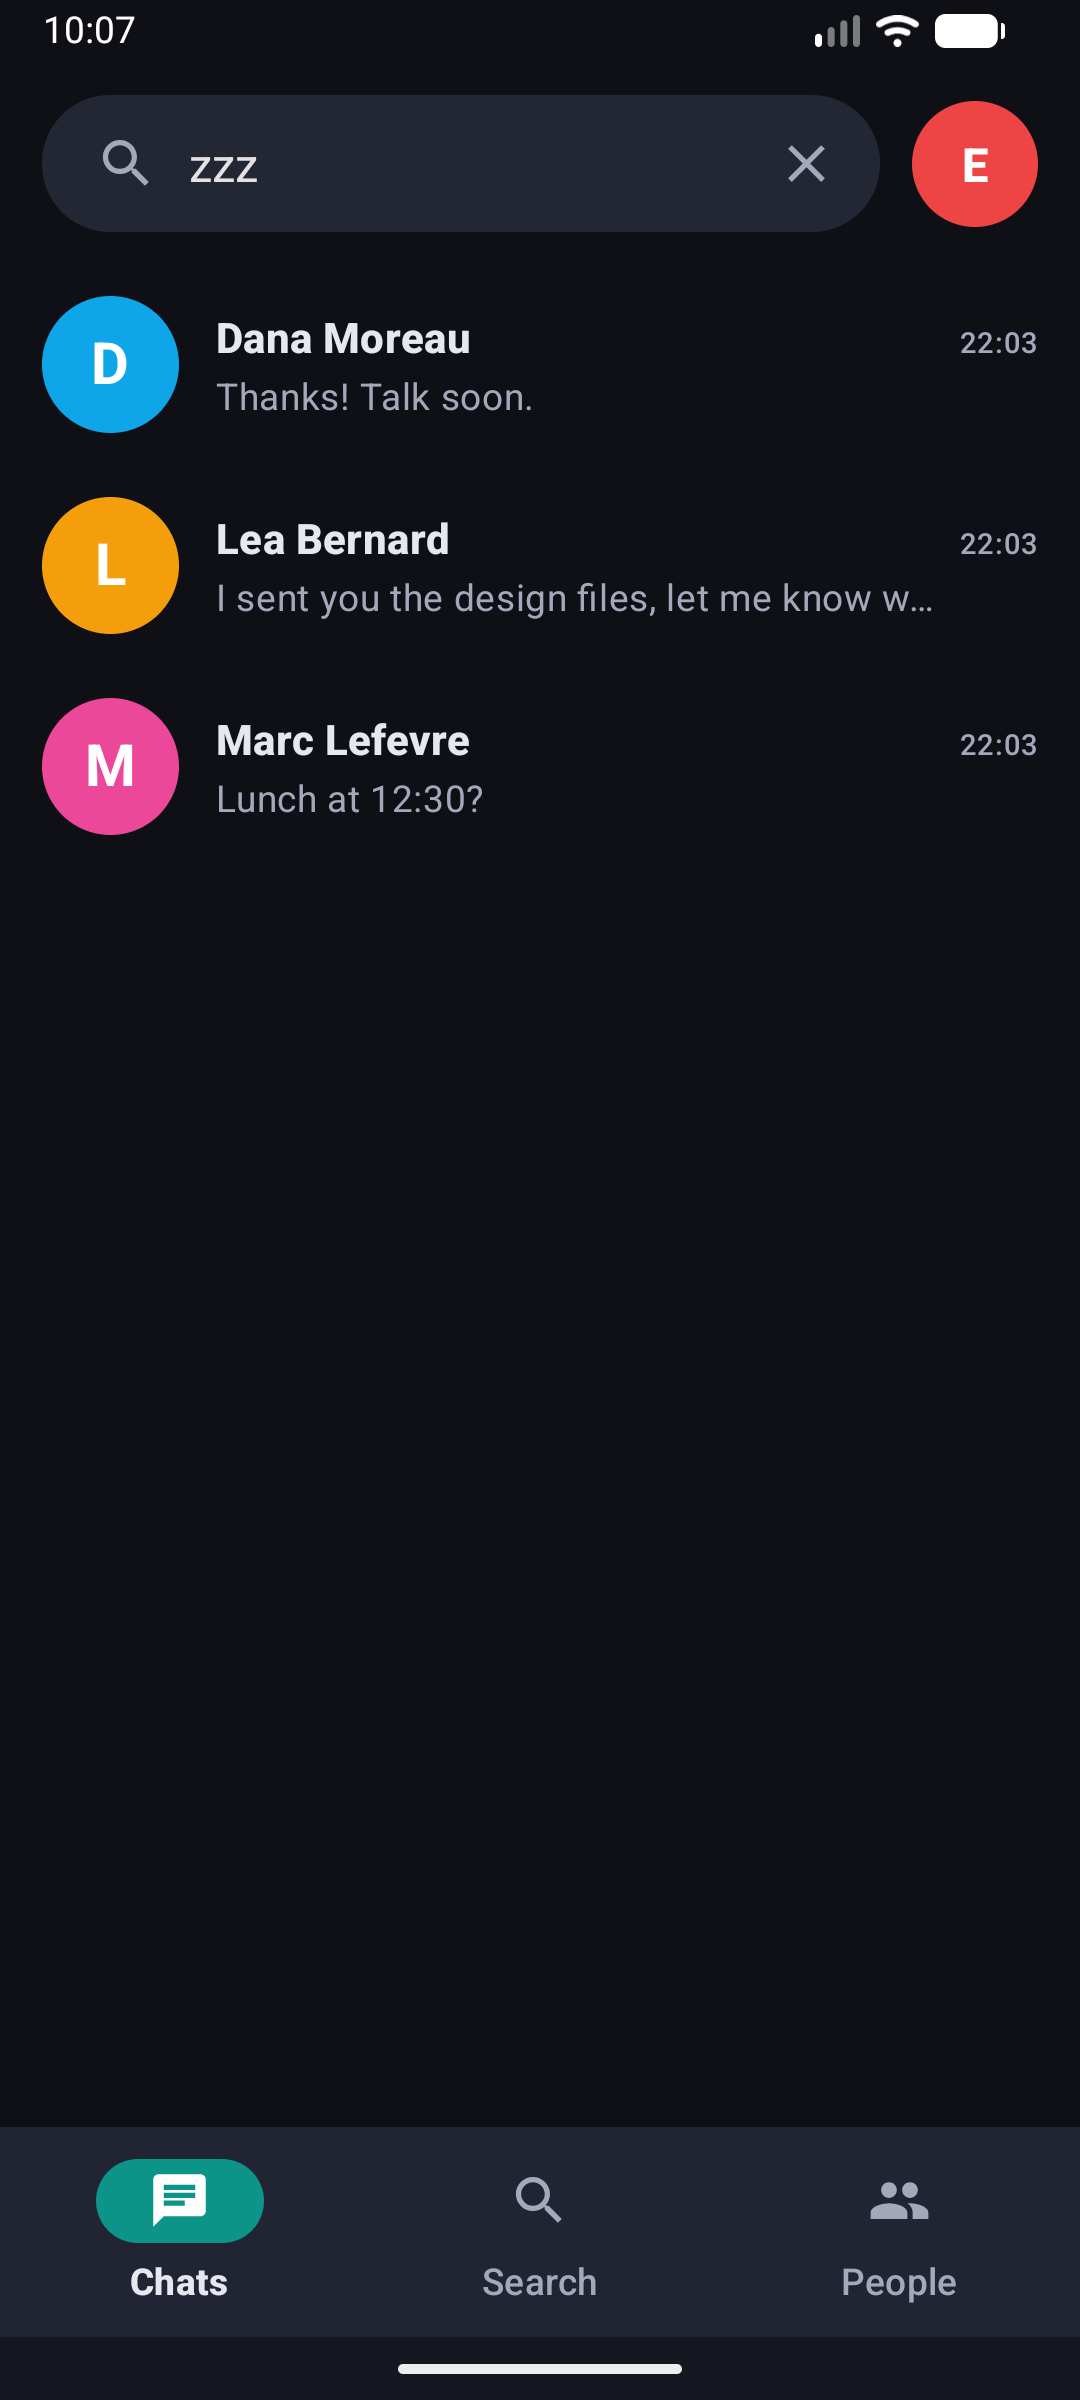
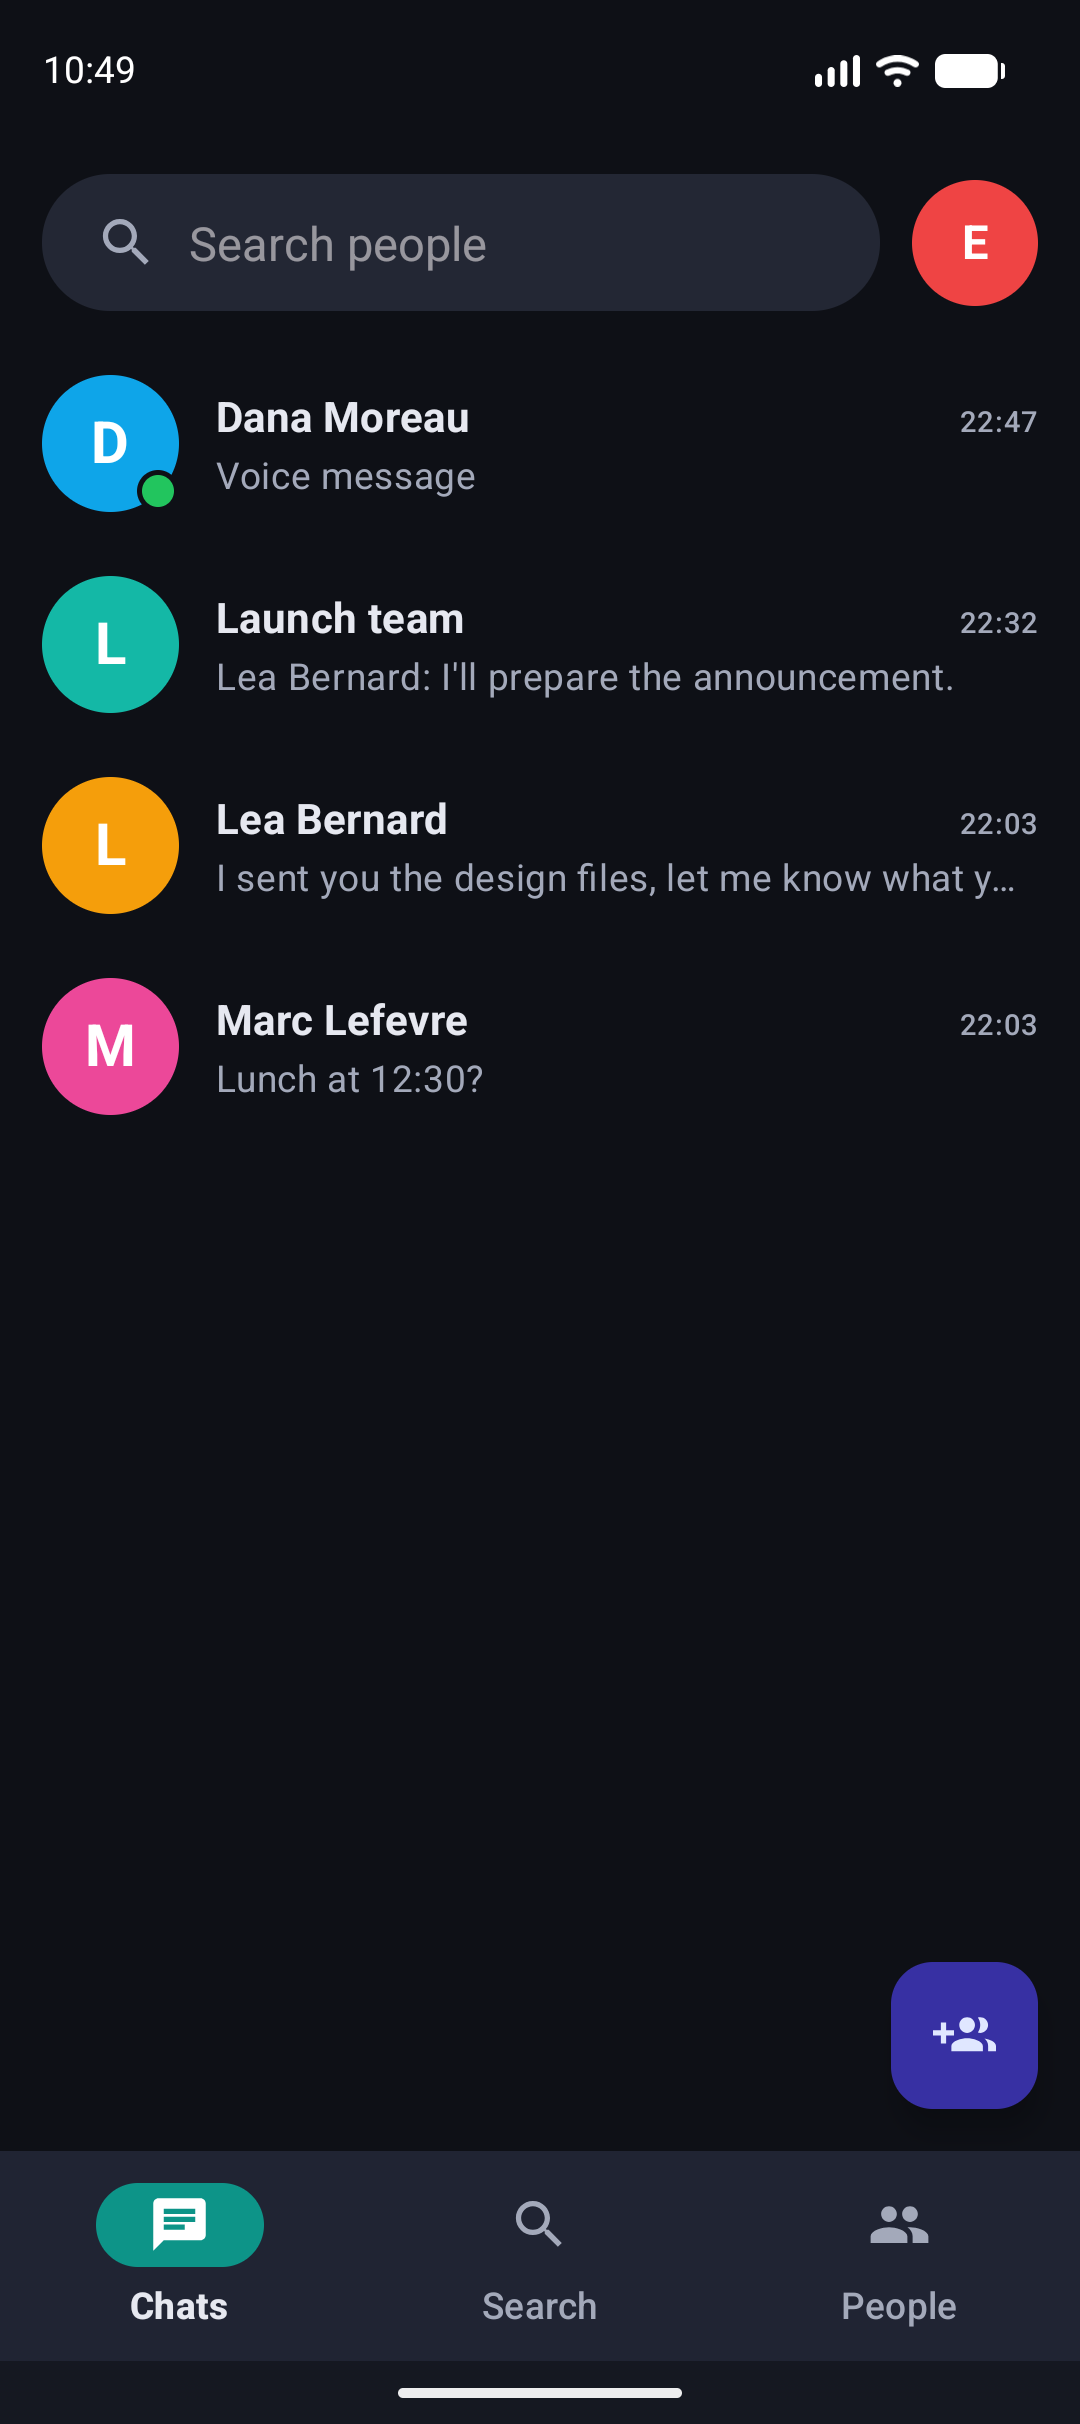
CI workflow, README for the new features, new screenshots

diff --git a/README.md b/README.md
@@ -1,48 +1,64 @@
 # ChatApp: Android chat with a Node.js server
 
-A real-time messaging app: an **Android client (Java)** talking to a **Node.js server** (Express + Socket.IO) backed by **MySQL**. Sign up, find people, add friends and chat; messages are delivered instantly and stored in the database.
+A real-time messaging app: an **Android client (Java)** talking to a **Node.js server** (Express + Socket.IO) backed by **MySQL**. Sign up, find people, add friends, chat one-to-one or in groups, and send photos, voice messages and files; everything is delivered instantly and stored in the database.
 
 ```
-Android app (Java, Volley, Socket.IO client)
-      │  HTTP  :8001  sign up / sign in / search / friends / history
-      │  WebSocket :8000  live messages
+Android app (Java, Volley, Socket.IO client, Room cache)
+      │  HTTP  :8001  sign up / sign in / search / friends / history / uploads
+      │  WebSocket :8000  live messages, typing, presence, read receipts
       ▼
-Node.js server (Express, Socket.IO, Argon2) ──► MySQL 8 (users, friends, messages)
+Node.js server (Express, Socket.IO, Argon2) ──► MySQL 8 (users, friends, messages, groups, uploads)
+                                          └──► uploads/ (photos, voice messages, files)
 ```
 
 ## Features
 
-- Sign up and sign in; the session is kept on the phone until you log out or it expires. Passwords are stored as Argon2 hashes, and the server issues a signed token (see *Authentication*).
-- **Chats** tab with the list of conversations and the conversation view with live delivery over Socket.IO.
-- **Search** tab: full-text search of users by name or e-mail (results ranked by relevance).
-- **People** tab: add and remove friends.
-- Account screen with your profile and log out.
+- **Accounts**: sign up and sign in; the session is kept on the phone until you log out or it expires. Passwords are stored as Argon2 hashes, and the server issues a signed token (see *Authentication*). A profile picture can be set from the profile screen.
+- **Conversations** with people and **groups**, most recent first, with an **unread counter** and a green dot when the person is online.
+- **Messages**
+  - text, **photos** (shrunk and rotated upright before upload, full-screen viewer), **voice messages** and **files** (any type up to 15 MB, opened with the app of your choice);
+  - voice messages are recorded with a **live scrolling waveform** and shown as loudness bars that fill while they play;
+  - **replies** (the quoted message is shown in the bubble), **edit** and **delete** (your own messages, for everyone);
+  - **read receipts** (✓ sent, ✓✓ read), **"typing…"**, **online / last seen**;
+  - history loads in pages of 30 as you scroll up.
+- **Groups**: create from your friends, rename, add and remove members (admins), leave; the sender's name is shown on each message. When the last admin leaves, another member becomes admin.
+- **Offline reading**: the conversation list and the latest messages of each conversation are cached on the phone (Room) and shown instantly, then refreshed from the server.
+- **Search** tab: full-text search of users by name or e-mail (results ranked by relevance). **People** tab: add and remove friends.
+- Material 3 design with light and dark themes.
 
 ## Screenshots
 
-The app running on an Android emulator against the server from this repository. The design follows Material 3, with a light and a dark theme.
+The app running on two Android emulators against the server from this repository.
 
-| Sign in | Sign up | Chats |
+| Chats (unread, groups) | Conversation (photo, voice) | Recording a voice message |
 | :---: | :---: | :---: |
-| <img src="docs/screenshots/sign-in.png" width="240"> | <img src="docs/screenshots/sign-up.png" width="240"> | <img src="docs/screenshots/chats.png" width="240"> |
+| <img src="docs/screenshots/chats.png" width="240"> | <img src="docs/screenshots/conversation.png" width="240"> | <img src="docs/screenshots/recording.png" width="240"> |
 
-| Search | Profile | Conversation |
+| Group chat | Group members | Profile |
 | :---: | :---: | :---: |
-| <img src="docs/screenshots/search.png" width="240"> | <img src="docs/screenshots/profile.png" width="240"> | <img src="docs/screenshots/conversation.png" width="240"> |
+| <img src="docs/screenshots/group.png" width="240"> | <img src="docs/screenshots/group-info.png" width="240"> | <img src="docs/screenshots/profile.png" width="240"> |
+
+| Sign in | Sign up | Search |
+| :---: | :---: | :---: |
+| <img src="docs/screenshots/sign-in.png" width="240"> | <img src="docs/screenshots/sign-up.png" width="240"> | <img src="docs/screenshots/search.png" width="240"> |
 
 | Chats (dark) | Conversation (dark) |
 | :---: | :---: |
 | <img src="docs/screenshots/chats-dark.png" width="240"> | <img src="docs/screenshots/conversation-dark.png" width="240"> |
+
+The emulator's microphone is silent, so the recording screenshot shows the flat baseline; on a phone the bars follow your voice.
 
 ## Quick start (server and database)
 
 ```bash
 docker compose up --build        # MySQL 8 with the sample database + the server (ports 8001 and 8000)
 # set your own signing secret for the login tokens:  JWT_SECRET=$(openssl rand -hex 32) docker compose up --build
-npm install && npm run smoke     # 56 end-to-end checks against the running server
+npm install && npm run smoke     # end-to-end checks against the running server
 ```
 
 The sample database (`chatdb.sql`) contains a few test accounts whose passwords are not documented: create your own account from the app or with `POST /signup`.
+
+The schema added since `chatdb.sql` (attachments, groups, read receipts, profile pictures, waveforms) is created by `server/migrate.js` every time the server starts. It is idempotent, so an existing database is upgraded in place. Uploaded files live in the `uploads` volume (`UPLOAD_DIR`).
 
 ### Without Docker
 
@@ -60,6 +76,7 @@ npm run server                   # or: npm start
 | `DB_NAME` | `ChatDB` | database name |
 | `PORT` | `8001` | HTTP API |
 | `SOCKET_PORT` | `8000` | Socket.IO |
+| `UPLOAD_DIR` | `./uploads` | where uploaded files are stored |
 | `JWT_SECRET` | random at each start | secret that signs the login tokens: set a long random value, otherwise every token stops working when the server restarts |
 | `TOKEN_LIFETIME` | `30d` | how long a token stays valid (`30d`, `12h`, ...) |
 
@@ -73,64 +90,85 @@ nix develop .#android                                      # JDK 17 + Android SD
 ./gradlew assembleDebug -PchatServerHost=192.168.1.20      # real phone: your computer's LAN IP
 ```
 
-The APK is written to `app/build/outputs/apk/debug/app-debug.apk`. In Android Studio, put `chatServerHost=192.168.1.20` in `~/.gradle/gradle.properties`. The phone and the computer must be on the same network. Plain HTTP is allowed (`usesCleartextTraffic`) because the server is meant for a local network.
+The APK is written to `app/build/outputs/apk/debug/app-debug.apk`. In Android Studio, put `chatServerHost=192.168.1.20` in `~/.gradle/gradle.properties`. The phone and the computer must be on the same network. Plain HTTP is allowed (`usesCleartextTraffic`) because the server is meant for a local network. The app asks for the microphone permission the first time you record.
 
 ## Authentication
 
 - `/signup` and `/signin` are public and return a **token** (a signed JWT, HS256, valid `TOKEN_LIFETIME`).
 - Every other route needs `Authorization: Bearer <token>`; without a valid one the answer is `401`. The Android app stores the token with the session and sends it on every request; if the server answers `401` the app signs the user out.
-- The identity always comes from the token, never from an id in the request. You can only read your own friends and chat list, send messages as yourself, add or remove your own friendships, and read a conversation you take part in (`403` otherwise).
+- The identity always comes from the token, never from an id in the request. You can only read your own friends and conversations, send messages as yourself, edit or delete your own messages, read a conversation you take part in, and download files from conversations you belong to (`403` / `404` otherwise).
 - Sign-in gives the same answer for an unknown e-mail and a wrong password, and is limited to 10 failed attempts per address and e-mail every 15 minutes (`429`).
 - Sign-up checks lengths against the database columns (name 1-20, e-mail 1-50) and requires a password of at least 6 characters.
 - Socket.IO connections are authenticated too (below).
+- **Uploads**: a file is uploaded first and then attached to a message by the random name the server returns. Only its uploader can attach it, and only once; the type must match (an image message needs a JPEG, PNG, WebP or GIF). Files are served with `nosniff`, a sandboxing `Content-Security-Policy` and `Content-Disposition: attachment` (except images and audio), so an uploaded HTML file can never run as a page.
 
 The app talks plain HTTP on the local network; put the server behind HTTPS before exposing it beyond that, because tokens and passwords travel in clear otherwise.
 
 ## HTTP API
 
-All routes are `POST` with a JSON or form body and answer with JSON; a failure is `{"error": "..."}`.
+Routes are `POST` with a JSON body (or form body) and answer with JSON; a failure is `{"error": "..."}`. Message objects look like `{messageID, sender, receiver, groupID, type, content, attachment, fileName, fileSize, duration, waveform, replyTo, reply, edited, deleted, readAt, date, senderName}`.
 
 | Route | Body | Returns |
 | --- | --- | --- |
 | `/signup` | `userName`, `userEmail`, `userPassword` | `userID`, `token` |
-| `/signin` | `userEmail`, `userPassword` | `userID`, `userName`, `userEmail`, `token` |
-| `/user` | `userID` | `userID`, `userName`, `userEmail` |
+| `/signin` | `userEmail`, `userPassword` | `userID`, `userName`, `userEmail`, `avatar`, `token` |
+| `/user` | `userID` | `userID`, `userName`, `userEmail`, `avatar`, `online`, `lastSeen` |
 | `/search` | `searchTable` (`users`), `searchCols` (`userName, userEmail`), `searchTerm` | `results` (up to 100 users) |
 | `/friends` | `userID` | `friends` |
-| `/friends/add`, `/friends/remove` | `userID1`, `userID2` | `messages`: the database result (`affectedRows` is `1` on success) |
-| `/chats` | `userID` | `messages`: the user's messages, each with the name and e-mail of the person involved (the app turns them into the conversation list) |
-| `/messages` | `userID1`, `userID2` | `messages`: the conversation |
-| `/messages/send` | `sender`, `receiver`, `content` | `messageID` (the server stamps the time) |
-
-## Tests
-
-```bash
-npm run smoke                                          # 56 checks: API, authentication, authorization, SQL injection, real time
-CHAT_SERVER_HOST=localhost ./gradlew testDebugUnitTest # the app's own Socket.IO client against the server's token check
-```
-
-Both need the server running (`docker compose up --build`); the Gradle test is skipped when `CHAT_SERVER_HOST` is not set.
+| `/friends/add`, `/friends/remove` | `userID1`, `userID2` | the database result (`affectedRows` is `1` on success) |
+| `/conversations` | | `conversations`: people and groups, most recent first, with `preview`, `unread`, `online` |
+| `/messages` | `userID1`, `userID2`, optional `limit` (30, max 100) and `before` (a `messageID`) | `messages` (oldest first), `hasMore` |
+| `/messages/send` | `receiver` or `groupID`; `type` (`text`, `image`, `audio`, `file`); `content`; `attachment`; `duration`, `waveform` (voice); `replyTo` | `messageID`, `message` |
+| `/messages/edit`, `/messages/delete` | `messageID` (+ `content`) | `message` |
+| `/messages/read` | `userID` or `groupID` | how many messages were marked read |
+| `/upload?name=<file name>` | the file as the raw body, with its `Content-Type` (15 MB max) | `attachment` |
+| `GET /files/<attachment>` | | the file (if you belong to the conversation it was sent in) |
+| `/me/avatar` | `attachment` (an uploaded image) or `null` | `avatar` |
+| `/groups/create` | `name`, `members` (user ids) | `groupID` |
+| `/groups/info`, `/groups/messages` | `groupID` (+ paging for messages) | `group` with members and roles / `messages` |
+| `/groups/rename`, `/groups/add`, `/groups/remove` | `groupID` + `name` / `userID` | admins only; anyone may remove themselves to leave |
 
 ## Real time (Socket.IO)
 
 1. The client connects with its token in the handshake (`auth: {token}`; `?token=` also works). Without a valid token the connection is refused with `authentication required`.
-2. On connection the server emits `init request`; the client answers `init` (the user is the one named by the token; an id sent by the client is ignored).
-3. To send, the client emits `chat message` with a JSON string `{"sender", "receiver", "content"}` (a `date` is accepted but ignored: the server stamps the time). `sender` must be the authenticated user, otherwise the message is dropped.
-4. The server forwards it to the sender's and the receiver's connected devices as `chat message` and saves it.
+2. Messages can be sent over the socket (`chat message`, a JSON string with the same fields as `/messages/send`) or with `/messages/send`; the server saves the message, then emits it as `chat message` to every connected device of the sender and the receiver (or of every group member).
+3. Other events from the server: `message updated` (edit / delete), `messages read` (`{by, ids}`), `typing` (`{from, groupID, typing}`), `presence` (`{userID, online, lastSeen}`, sent to friends, people you talk to and group mates), `group updated` (`{groupID, removed}`).
+4. From the client: `typing` (`{to}` or `{groupID}`, `typing: true | false`).
 
 Malformed or incomplete payloads are ignored.
+
+## Tests
+
+```bash
+npm run smoke                  # about 160 end-to-end checks: API, authentication, authorization, SQL injection,
+                               # uploads, groups, receipts, paging, typing, presence, real time
+./gradlew testDebugUnitTest    # the app's own unit tests (messages, waveforms, formatting, media helpers)
+```
+
+The smoke test needs the server running (`docker compose up --build`). The same two commands run in GitHub Actions (`.github/workflows/ci.yml`): the server against a MySQL service container, and the Android build.
 
 ## Project layout
 
 ```
-app/                    Android app (package com.example.chatapp): activities, fragments, adapters
-server.js               Express API + Socket.IO server
-chatdb.sql              database schema and sample data
-scripts/smoke-test.js   end-to-end test of the API, the authorization rules and the real-time path
+app/                    Android app (package com.example.chatapp)
+  Api, ChatEvents       server calls (JSON, token) and the real-time events fanned out to the open screens
+  ChatFragment          the conversation screen (an Activity despite the name)
+  Media, Attachments    downloading, caching and preparing photos, voice messages and files
+  Cache*                Room cache for offline reading
+server.js               Express API, sign in, Socket.IO, presence and typing
+server/                 messaging.js, groups.js, uploads.js, migrate.js (schema changes applied at start)
+chatdb.sql              original schema and sample data
+scripts/smoke-test.js   end-to-end test of the whole server
 docker-compose.yml      MySQL + server;  Dockerfile builds the server image
 flake.nix               Nix dev shells (server, Android SDK)
 ```
 
 ## Tech stack
 
-Android (Java, Volley, Material, Navigation, `socket.io-client`) · Node.js 22 · Express 4 · Socket.IO 4 · MySQL 8 (`mysql2`, full-text search) · Argon2 · Docker Compose · Gradle 7.5 / Android Gradle Plugin 7.4.
+Android (Java, Volley, Material 3, Navigation, Room, `socket.io-client`) · Node.js 22 · Express 4 · Socket.IO 4 · MySQL 8 (`mysql2`, full-text search) · Argon2 · Docker Compose · GitHub Actions · Gradle 7.5 / Android Gradle Plugin 7.4.
+
+## Not done (yet)
+
+- Push notifications (needs a Firebase project): you only see new messages while the app is open.
+- End-to-end encryption and HTTPS: messages and files are stored in clear on the server.
+- Unsent messages are not queued while offline (reading offline works, sending does not).
